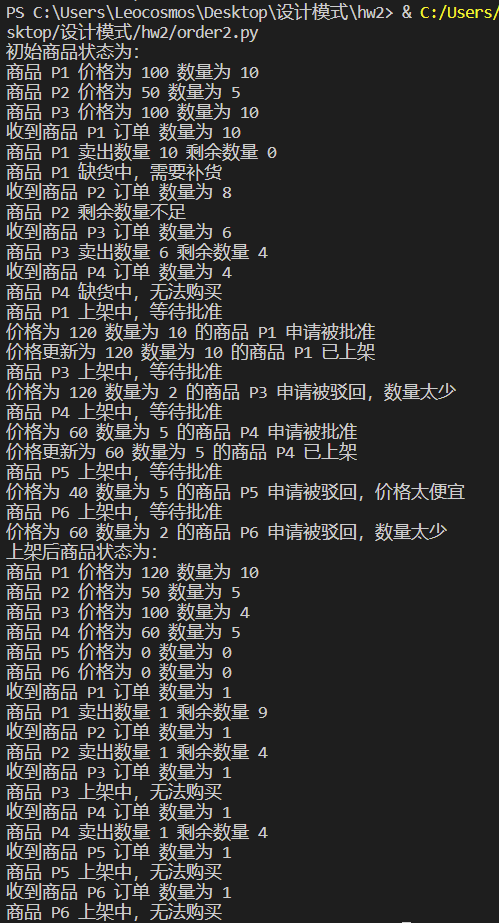
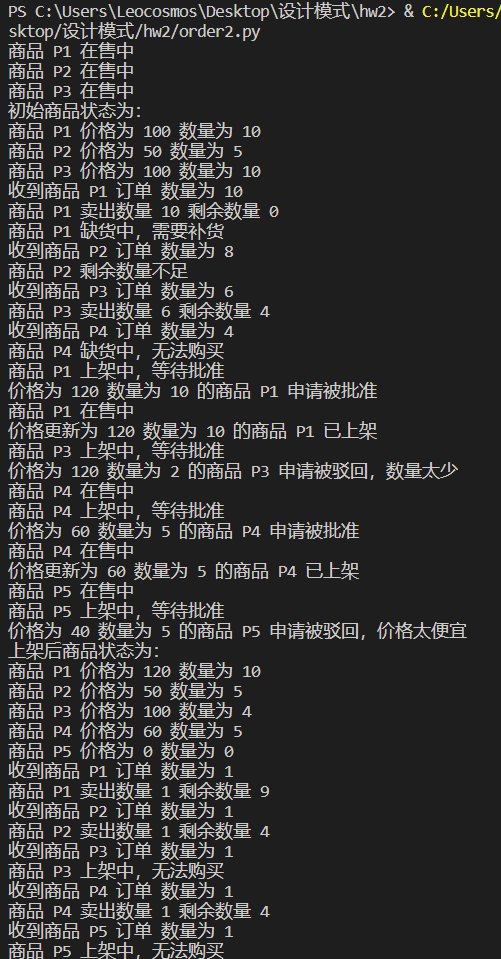
Add files via upload

diff --git a/order2.py b/order2.py
@@ -1,4 +1,3 @@
-# 商品状态
 class State(object):
     def __init__(self, p):
         pass
@@ -8,7 +7,7 @@ class State(object):
 # 在售状态
 class OnSaleState(State):
     def __init__(self, p):
-        pass
+        print("商品", p.name, "在售中")
     def sell(self, p, count):
         if count < p.count:
             p.count -= count
@@ -18,20 +17,20 @@ class OnSaleState(State):
             print("商品", p.name, "卖出数量", count, "剩余数量", p.count)
             p.set_state(AbsentState(p))
         else:
-            print("商品", name, "剩余数量不足")
+            print("商品", p.name, "剩余数量不足")
 # 缺货状态
 class AbsentState(State):
     def __init__(self, p):
-        print("商品", name, "缺货中，需要补货")
+        print("商品", p.name, "缺货中，需要补货")
     def sell(self, p, count):
-        print("商品", name, "缺货中，无法购买")
+        print("商品", p.name, "缺货中，无法购买")
 
 # 上架状态
 class LoadingState(State):
     def __init__(self, p):
-        print("商品", name, "上架中，等待批准")
+        print("商品", p.name, "上架中，等待批准")
     def sell(self, p, count):
-        print("商品", name, "上架中，无法购买")
+        print("商品", p.name, "上架中，无法购买")
 
 # 商品
 class Product(object):
@@ -40,10 +39,10 @@ class Product(object):
     __count = 0
     __name = None
     def __init__(self, price, count, name):
-        self.__state = OnSaleState(self)
         self.__price = price
         self.__count = count
         self.__name = name
+        self.__state = OnSaleState(self)
 
     def set_state(self, state):
         self.__state = state
@@ -176,7 +175,7 @@ if __name__ == '__main__':
             Inventory[name].sell(count)
     
     loading_products = [(120, 10, 'P1'), (120, 2, 'P3'), (60, 5, 'P4'),
-                    (40, 5, 'P5'), (60, 2, 'P6')]
+                    (40, 5, 'P5')]
     for price, count, name in loading_products:
         request = Request()
         request.price = price
@@ -196,7 +195,7 @@ if __name__ == '__main__':
     for p in Inventory.values():
         print("商品", p.name, "价格为", p.price, "数量为", p.count)
 
-    order_products = [(1, 'P1'), (1, 'P2'), (1, 'P3'), (1, 'P4'), (1, 'P5'), (1, 'P6')]
+    order_products = [(1, 'P1'), (1, 'P2'), (1, 'P3'), (1, 'P4'), (1, 'P5')]
     for count, name in order_products:
         print("收到商品", name, "订单 数量为", count)
         if name not in Inventory:

diff --git a/readme.md b/readme.md
@@ -1,10 +1,9 @@
 # 商品状态+商品审核模块设计：
 ## 1. 方案设计：
 采用状态+职责链模式设计模块。商品状态部分State为父类定义抽象方法，OnSaleState、AbsentState、LoadingState为子类实现具体商品状态，Product为具体商品；商品上架审核部分Request为商品审核单记录补货的商品和数量，Auditor为父类定义审核人员，InventoryAuditor、SaleAuditor、ManagementAuditor为子类实现具体审核人员。
-此外，Inventory为现有商品在售情况，包括商品类别和商品数量，当某商品数量=0时将进入商品缺货状态，当商品审核单被驳回时将进入商品上架状态。
+此外，Inventory为现有商品在售情况，包括商品类别和商品数量，当某商品数量=0时将进入商品缺货状态，当商品审核单被驳回时将进入商品上架状态，当初始化和商品审核单被批准时将进入商品在售状态。
 ## 2.代码实现及截图：
 ```python
-# 商品状态
 class State(object):
     def __init__(self, p):
         pass
@@ -14,7 +13,7 @@ class State(object):
 # 在售状态
 class OnSaleState(State):
     def __init__(self, p):
-        pass
+        print("商品", p.name, "在售中")
     def sell(self, p, count):
         if count < p.count:
             p.count -= count
@@ -24,20 +23,20 @@ class OnSaleState(State):
             print("商品", p.name, "卖出数量", count, "剩余数量", p.count)
             p.set_state(AbsentState(p))
         else:
-            print("商品", name, "剩余数量不足")
+            print("商品", p.name, "剩余数量不足")
 # 缺货状态
 class AbsentState(State):
     def __init__(self, p):
-        print("商品", name, "缺货中，需要补货")
+        print("商品", p.name, "缺货中，需要补货")
     def sell(self, p, count):
-        print("商品", name, "缺货中，无法购买")
+        print("商品", p.name, "缺货中，无法购买")
 
 # 上架状态
 class LoadingState(State):
     def __init__(self, p):
-        print("商品", name, "上架中，等待批准")
+        print("商品", p.name, "上架中，等待批准")
     def sell(self, p, count):
-        print("商品", name, "上架中，无法购买")
+        print("商品", p.name, "上架中，无法购买")
 
 # 商品
 class Product(object):
@@ -46,10 +45,10 @@ class Product(object):
     __count = 0
     __name = None
     def __init__(self, price, count, name):
-        self.__state = OnSaleState(self)
         self.__price = price
         self.__count = count
         self.__name = name
+        self.__state = OnSaleState(self)
 
     def set_state(self, state):
         self.__state = state
@@ -182,7 +181,7 @@ if __name__ == '__main__':
             Inventory[name].sell(count)
     
     loading_products = [(120, 10, 'P1'), (120, 2, 'P3'), (60, 5, 'P4'),
-                    (40, 5, 'P5'), (60, 2, 'P6')]
+                    (40, 5, 'P5')]
     for price, count, name in loading_products:
         request = Request()
         request.price = price
@@ -202,7 +201,7 @@ if __name__ == '__main__':
     for p in Inventory.values():
         print("商品", p.name, "价格为", p.price, "数量为", p.count)
 
-    order_products = [(1, 'P1'), (1, 'P2'), (1, 'P3'), (1, 'P4'), (1, 'P5'), (1, 'P6')]
+    order_products = [(1, 'P1'), (1, 'P2'), (1, 'P3'), (1, 'P4'), (1, 'P5')]
     for count, name in order_products:
         print("收到商品", name, "订单 数量为", count)
         if name not in Inventory:
